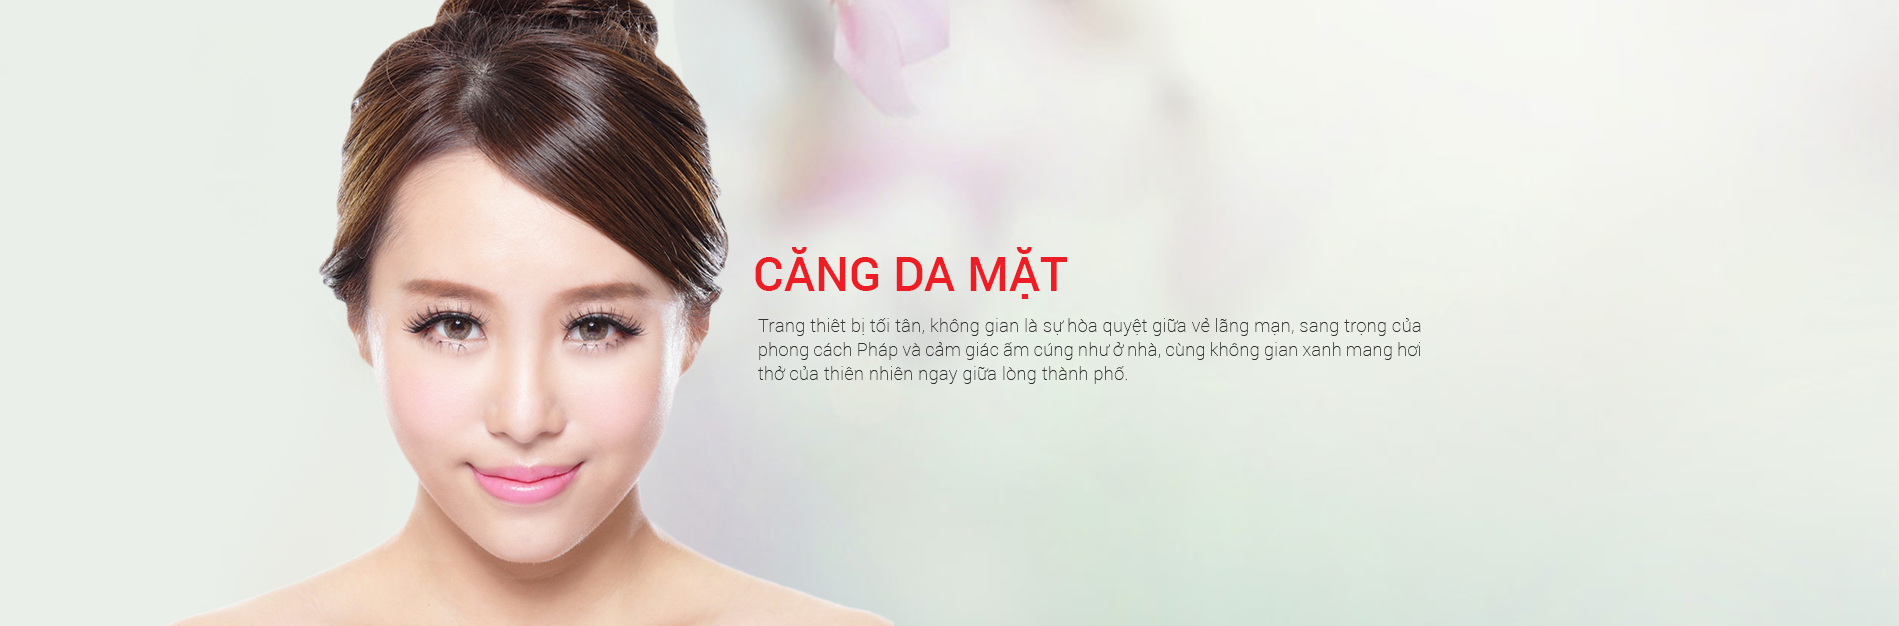
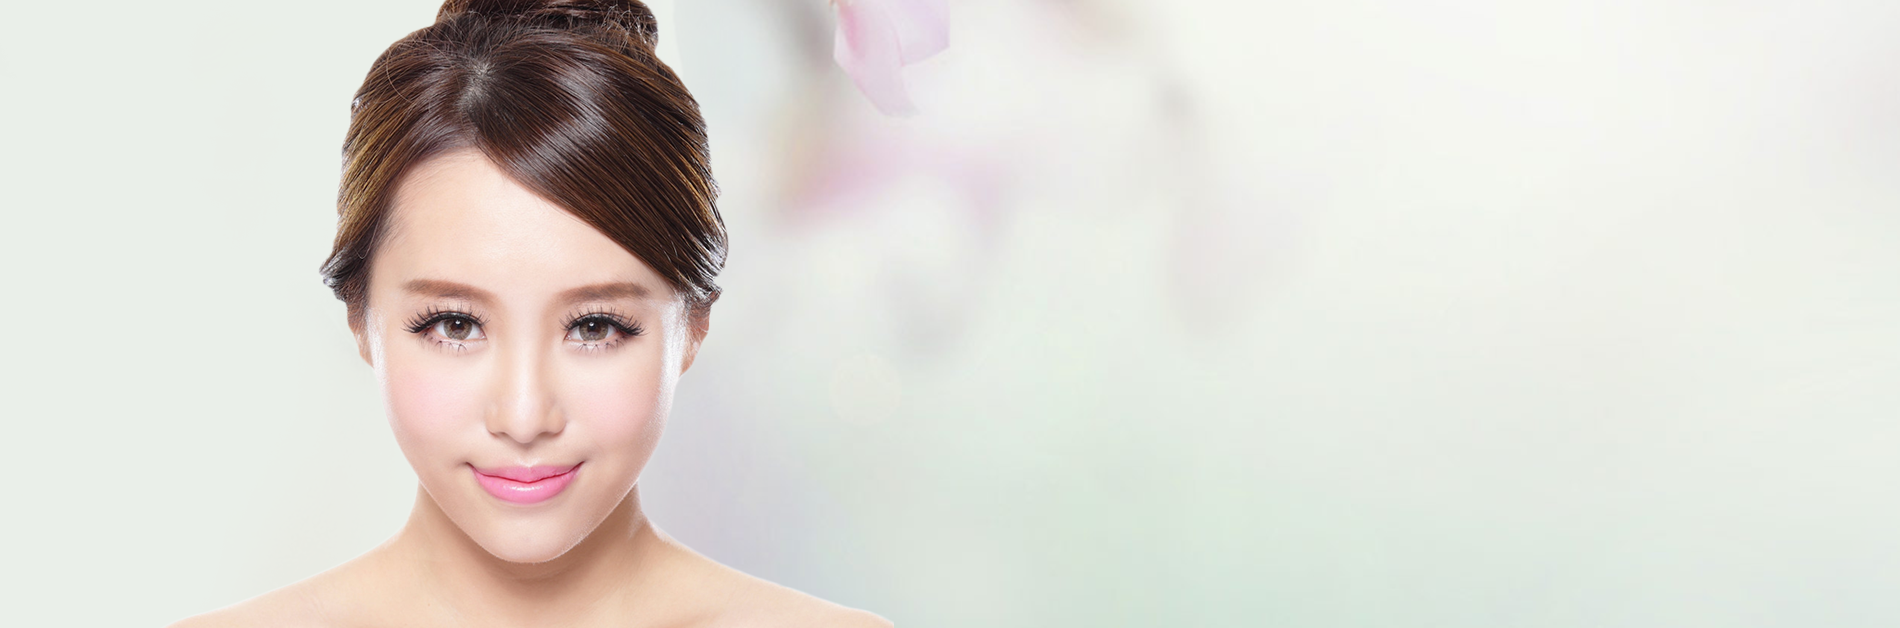
Update code.

diff --git a/about.html b/about.html
@@ -44,7 +44,7 @@
             <div class="container">
               <div class="carousel-caption">
                 <h1 class="text-left">CĂNG DA MẶT</h1>
-                <p class="text-left">
+                <p class="text-left hiden-xs hiden-sm">
                   Trang thiết bị tối tân,không gian là sự hòa quyện giữ vẻ lãng mạn,sang trọng
                   của phong cách Pháp và cảm giác ấm cũng như ở nhà, cùng không gian xanh mang hơi thở của thiên nhiên ngay giữa lòng thành phố.
                 </p>
@@ -55,7 +55,7 @@
             <div class="container">
               <div class="carousel-caption">
                 <h1 class="text-left">CĂNG DA MẶT</h1>
-                <p class="text-left">
+                <p class="text-left hiden-xs hiden-sm">
                   Trang thiết bị tối tân,không gian là sự hòa quyện giữ vẻ lãng mạn,sang trọng
                   của phong cách Pháp và cảm giác ấm cũng như ở nhà, cùng không gian xanh mang hơi thở của thiên nhiên ngay giữa lòng thành phố.    
                 </p>
@@ -66,7 +66,7 @@
             <div class="container">
               <div class="carousel-caption">
                 <h1 class="text-left">CĂNG DA MẶT</h1>
-                <p class="text-left">
+                <p class="text-left hiden-xs hiden-sm">
                   Trang thiết bị tối tân,không gian là sự hòa quyện giữ vẻ lãng mạn,sang trọng
                   của phong cách Pháp và cảm giác ấm cũng như ở nhà, cùng không gian xanh mang hơi thở của thiên nhiên ngay giữa lòng thành phố.    
                 </p>

diff --git a/beauty-secrets.html b/beauty-secrets.html
@@ -44,7 +44,7 @@
             <div class="container">
               <div class="carousel-caption">
                 <h1 class="text-left">CĂNG DA MẶT</h1>
-                <p class="text-left">
+                <p class="text-left hiden-xs hiden-sm">
                   Trang thiết bị tối tân,không gian là sự hòa quyện giữ vẻ lãng mạn,sang trọng
                   của phong cách Pháp và cảm giác ấm cũng như ở nhà, cùng không gian xanh mang hơi thở của thiên nhiên ngay giữa lòng thành phố.
                 </p>
@@ -55,7 +55,7 @@
             <div class="container">
               <div class="carousel-caption">
                 <h1 class="text-left">CĂNG DA MẶT</h1>
-                <p class="text-left">
+                <p class="text-left hiden-xs hiden-sm">
                   Trang thiết bị tối tân,không gian là sự hòa quyện giữ vẻ lãng mạn,sang trọng
                   của phong cách Pháp và cảm giác ấm cũng như ở nhà, cùng không gian xanh mang hơi thở của thiên nhiên ngay giữa lòng thành phố.    
                 </p>
@@ -66,7 +66,7 @@
             <div class="container">
               <div class="carousel-caption">
                 <h1 class="text-left">CĂNG DA MẶT</h1>
-                <p class="text-left">
+                <p class="text-left hiden-xs hiden-sm">
                   Trang thiết bị tối tân,không gian là sự hòa quyện giữ vẻ lãng mạn,sang trọng
                   của phong cách Pháp và cảm giác ấm cũng như ở nhà, cùng không gian xanh mang hơi thở của thiên nhiên ngay giữa lòng thành phố.    
                 </p>

diff --git a/contact.html b/contact.html
@@ -44,7 +44,7 @@
             <div class="container">
               <div class="carousel-caption">
                 <h1 class="text-left">CĂNG DA MẶT</h1>
-                <p class="text-left">
+                <p class="text-left hiden-xs hiden-sm">
                   Trang thiết bị tối tân,không gian là sự hòa quyện giữ vẻ lãng mạn,sang trọng
                   của phong cách Pháp và cảm giác ấm cũng như ở nhà, cùng không gian xanh mang hơi thở của thiên nhiên ngay giữa lòng thành phố.
                 </p>
@@ -55,7 +55,7 @@
             <div class="container">
               <div class="carousel-caption">
                 <h1 class="text-left">CĂNG DA MẶT</h1>
-                <p class="text-left">
+                <p class="text-left hiden-xs hiden-sm">
                   Trang thiết bị tối tân,không gian là sự hòa quyện giữ vẻ lãng mạn,sang trọng
                   của phong cách Pháp và cảm giác ấm cũng như ở nhà, cùng không gian xanh mang hơi thở của thiên nhiên ngay giữa lòng thành phố.    
                 </p>
@@ -66,7 +66,7 @@
             <div class="container">
               <div class="carousel-caption">
                 <h1 class="text-left">CĂNG DA MẶT</h1>
-                <p class="text-left">
+                <p class="text-left hiden-xs hiden-sm">
                   Trang thiết bị tối tân,không gian là sự hòa quyện giữ vẻ lãng mạn,sang trọng
                   của phong cách Pháp và cảm giác ấm cũng như ở nhà, cùng không gian xanh mang hơi thở của thiên nhiên ngay giữa lòng thành phố.    
                 </p>

diff --git a/facelifts.html b/facelifts.html
@@ -44,7 +44,7 @@
             <div class="container">
               <div class="carousel-caption">
                 <h1 class="text-left">CĂNG DA MẶT</h1>
-                <p class="text-left">
+                <p class="text-left hiden-xs hiden-sm">
                   Trang thiết bị tối tân,không gian là sự hòa quyện giữ vẻ lãng mạn,sang trọng
                   của phong cách Pháp và cảm giác ấm cũng như ở nhà, cùng không gian xanh mang hơi thở của thiên nhiên ngay giữa lòng thành phố.
                 </p>
@@ -55,7 +55,7 @@
             <div class="container">
               <div class="carousel-caption">
                 <h1 class="text-left">CĂNG DA MẶT</h1>
-                <p class="text-left">
+                <p class="text-left hiden-xs hiden-sm">
                   Trang thiết bị tối tân,không gian là sự hòa quyện giữ vẻ lãng mạn,sang trọng
                   của phong cách Pháp và cảm giác ấm cũng như ở nhà, cùng không gian xanh mang hơi thở của thiên nhiên ngay giữa lòng thành phố.    
                 </p>
@@ -66,7 +66,7 @@
             <div class="container">
               <div class="carousel-caption">
                 <h1 class="text-left">CĂNG DA MẶT</h1>
-                <p class="text-left">
+                <p class="text-left hiden-xs hiden-sm">
                   Trang thiết bị tối tân,không gian là sự hòa quyện giữ vẻ lãng mạn,sang trọng
                   của phong cách Pháp và cảm giác ấm cũng như ở nhà, cùng không gian xanh mang hơi thở của thiên nhiên ngay giữa lòng thành phố.    
                 </p>

diff --git a/index.html b/index.html
@@ -44,7 +44,7 @@
             <div class="container">
               <div class="carousel-caption">
                 <h1 class="text-left">CĂNG DA MẶT</h1>
-                <p class="text-left">
+                <p class="text-left hiden-xs hiden-sm">
                   Trang thiết bị tối tân,không gian là sự hòa quyện giữ vẻ lãng mạn,sang trọng
                   của phong cách Pháp và cảm giác ấm cũng như ở nhà, cùng không gian xanh mang hơi thở của thiên nhiên ngay giữa lòng thành phố.
                 </p>
@@ -55,7 +55,7 @@
             <div class="container">
               <div class="carousel-caption">
                 <h1 class="text-left">CĂNG DA MẶT</h1>
-                <p class="text-left">
+                <p class="text-left hiden-xs hiden-sm">
                   Trang thiết bị tối tân,không gian là sự hòa quyện giữ vẻ lãng mạn,sang trọng
                   của phong cách Pháp và cảm giác ấm cũng như ở nhà, cùng không gian xanh mang hơi thở của thiên nhiên ngay giữa lòng thành phố.    
                 </p>
@@ -66,7 +66,7 @@
             <div class="container">
               <div class="carousel-caption">
                 <h1 class="text-left">CĂNG DA MẶT</h1>
-                <p class="text-left">
+                <p class="text-left hiden-xs hiden-sm">
                   Trang thiết bị tối tân,không gian là sự hòa quyện giữ vẻ lãng mạn,sang trọng
                   của phong cách Pháp và cảm giác ấm cũng như ở nhà, cùng không gian xanh mang hơi thở của thiên nhiên ngay giữa lòng thành phố.    
                 </p>

diff --git a/css/style.css b/css/style.css
@@ -682,6 +682,16 @@ html {
   .navbar-toggle .icon-bar {
     background-color: #000000; }
 
+.carousel-caption {
+  top: 207px;
+  left: 40%;
+  width: 665px;
+  text-shadow: initial; }
+  .carousel-caption h1 {
+    color: #ec1d23; }
+  .carousel-caption p {
+    color: #000000; }
+
 @media only screen and (max-width: 767px) {
   .navbar {
     opacity: 1; }
